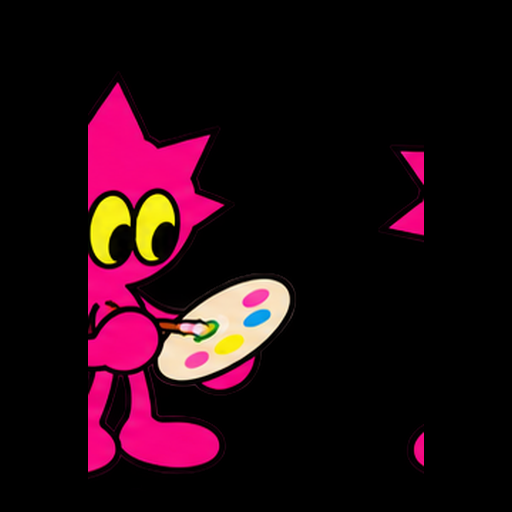
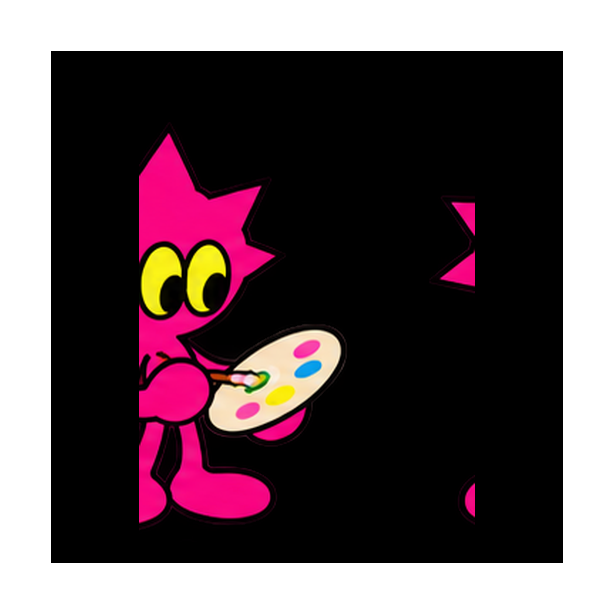
Unfreeze the face after thinking starts.
faceImgs() only matched character/listening sources — the first think
frame rewrote src to oddity-thinking-*, the selector went empty, and
every tick after was a no-op: face locked, captions stale. Also inset
the thinking art ~10% — the source frames are full-bleed.

Generated with [Devin](https://devin.ai)

diff --git a/friend/gizmo_friend/static/oddity.js b/friend/gizmo_friend/static/oddity.js
@@ -99,7 +99,7 @@ const THINK_FRAMES = Array.from({ length: 15 }, (_, i) => `/static/oddity-thinki
 const THINK_SLOTS = [6, 7, 8, 9, 10, 11, 12, 13, 14, 14, 14, 13, 12, 11, 10, 9, 8, 7, 6];
 let listenSlot = 0, listenFrame = -1, thinkSlot = 0, faceNextAt = 0, listenNextAt = 0, thinkNextAt = 0, blinkStep = 0;
 function faceImgs() {
-  return document.querySelectorAll('img[src*="oddity-character"], img[src*="oddity-listening"]');
+  return document.querySelectorAll('img[src*="oddity-character"], img[src*="oddity-listening"], img[src*="oddity-thinking"]');
 }
 // One interval owns the face: the lean while talk is held, the unwind on
 // release, then the blink at rest. Listening has its own deadline so a press

diff --git a/friend/gizmo_friend/static/oddity.html b/friend/gizmo_friend/static/oddity.html
@@ -46,7 +46,7 @@
       document.documentElement.classList.add('oddity-locked');
     }
   </script>
-  <script type="module" src="/static/oddity.js?v=gate56"></script>
+  <script type="module" src="/static/oddity.js?v=gate57"></script>
 </head>
 <body>
   <header class="masthead">
